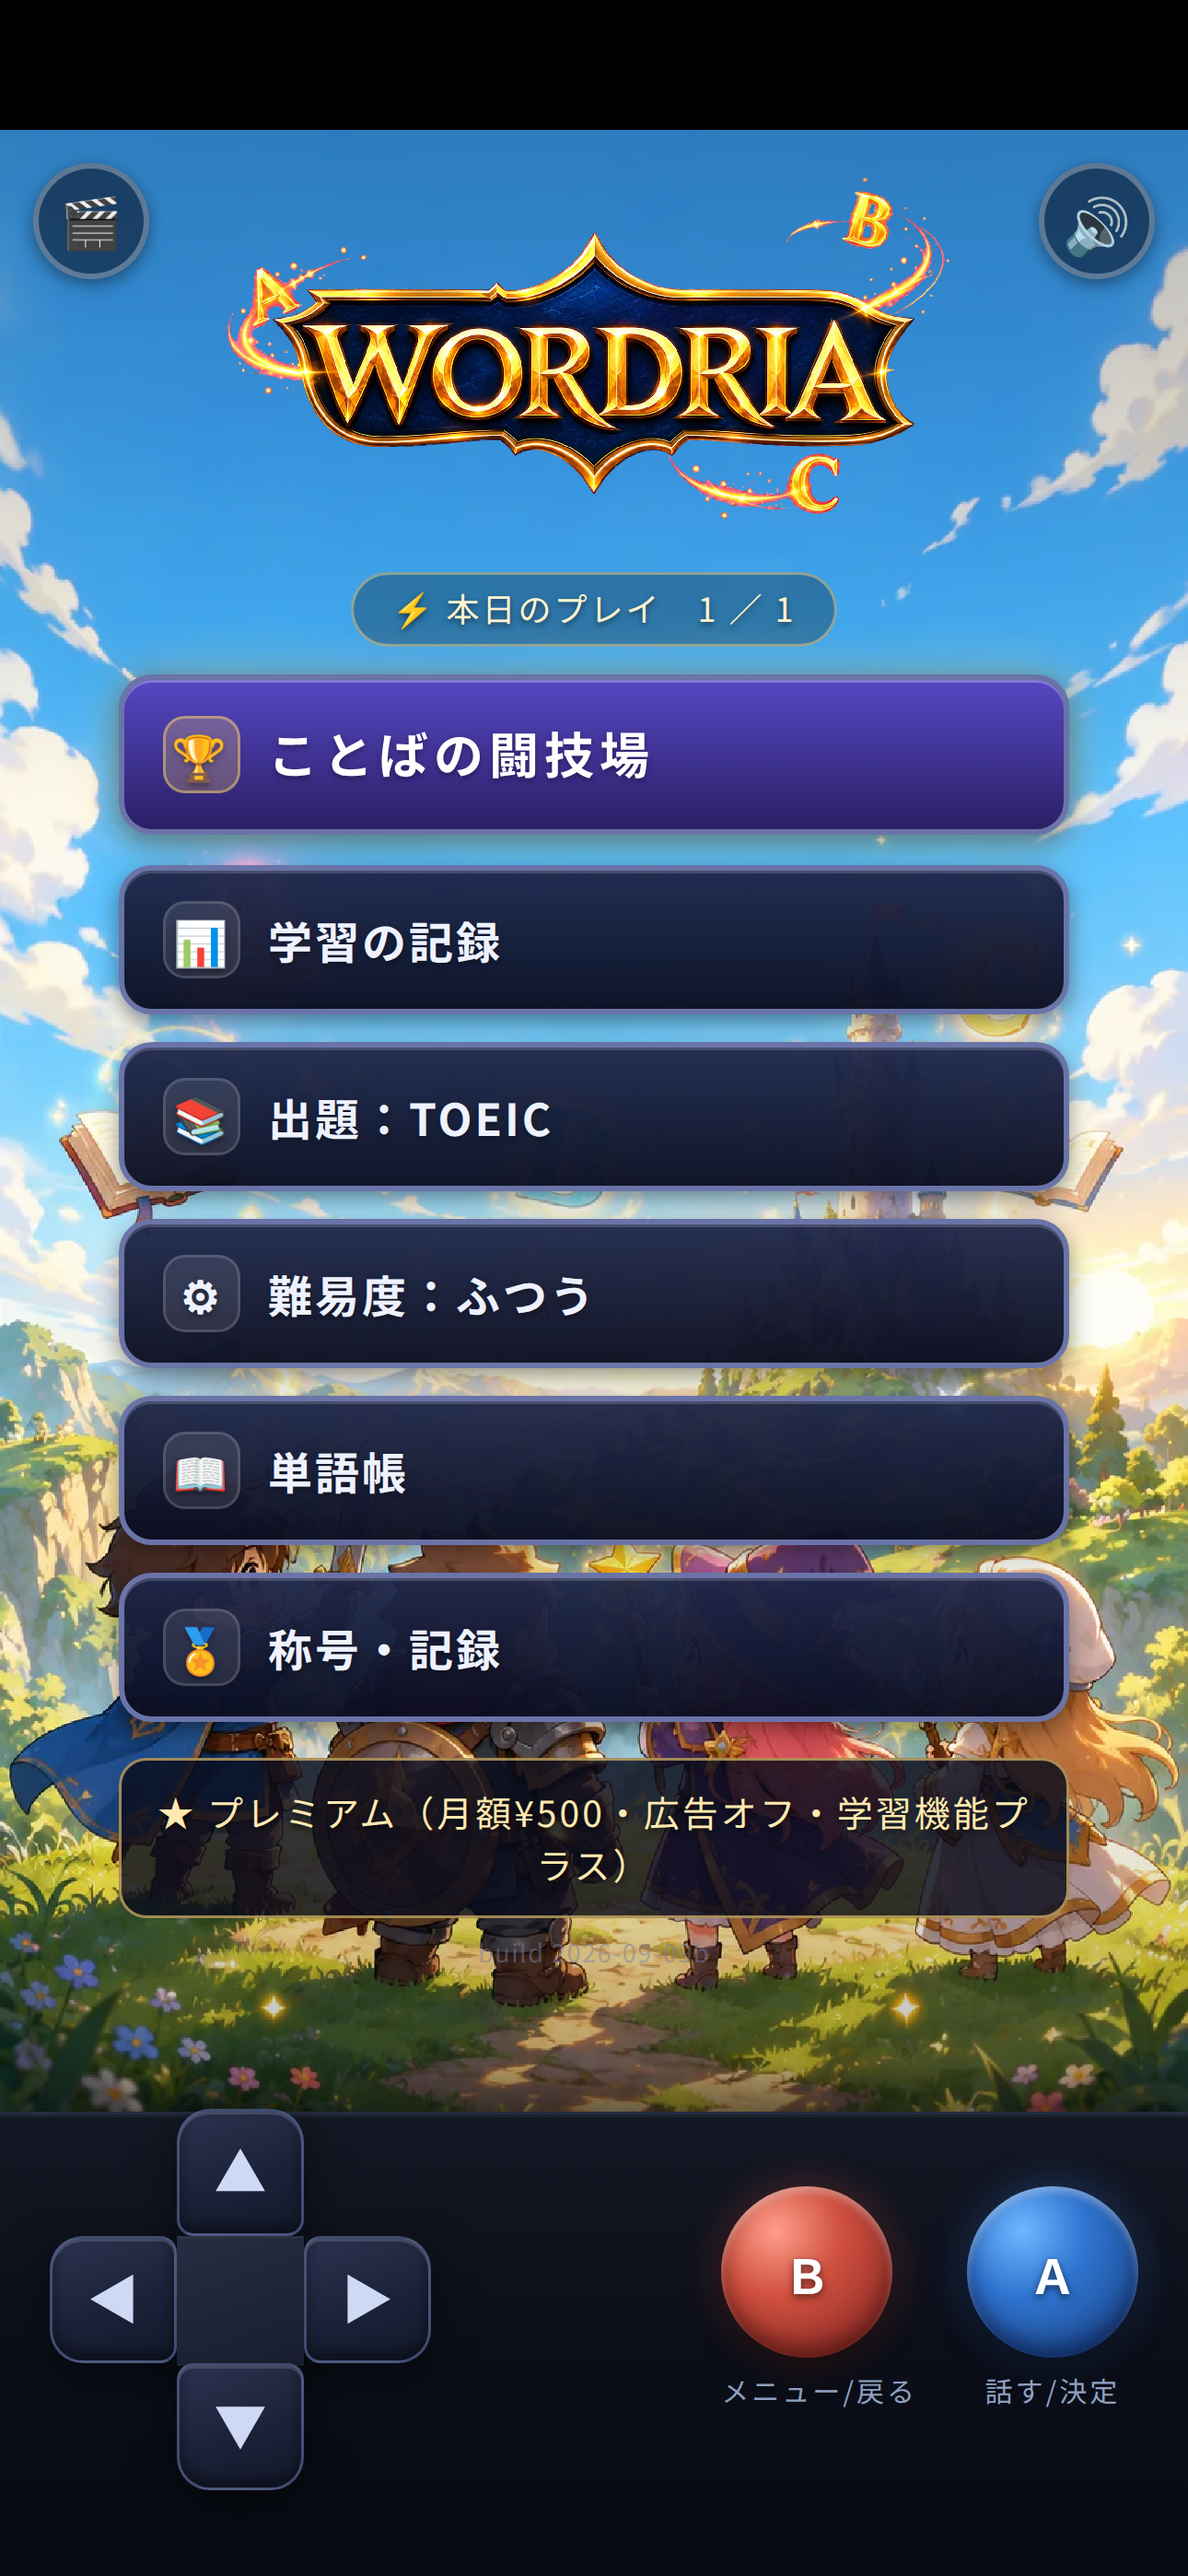
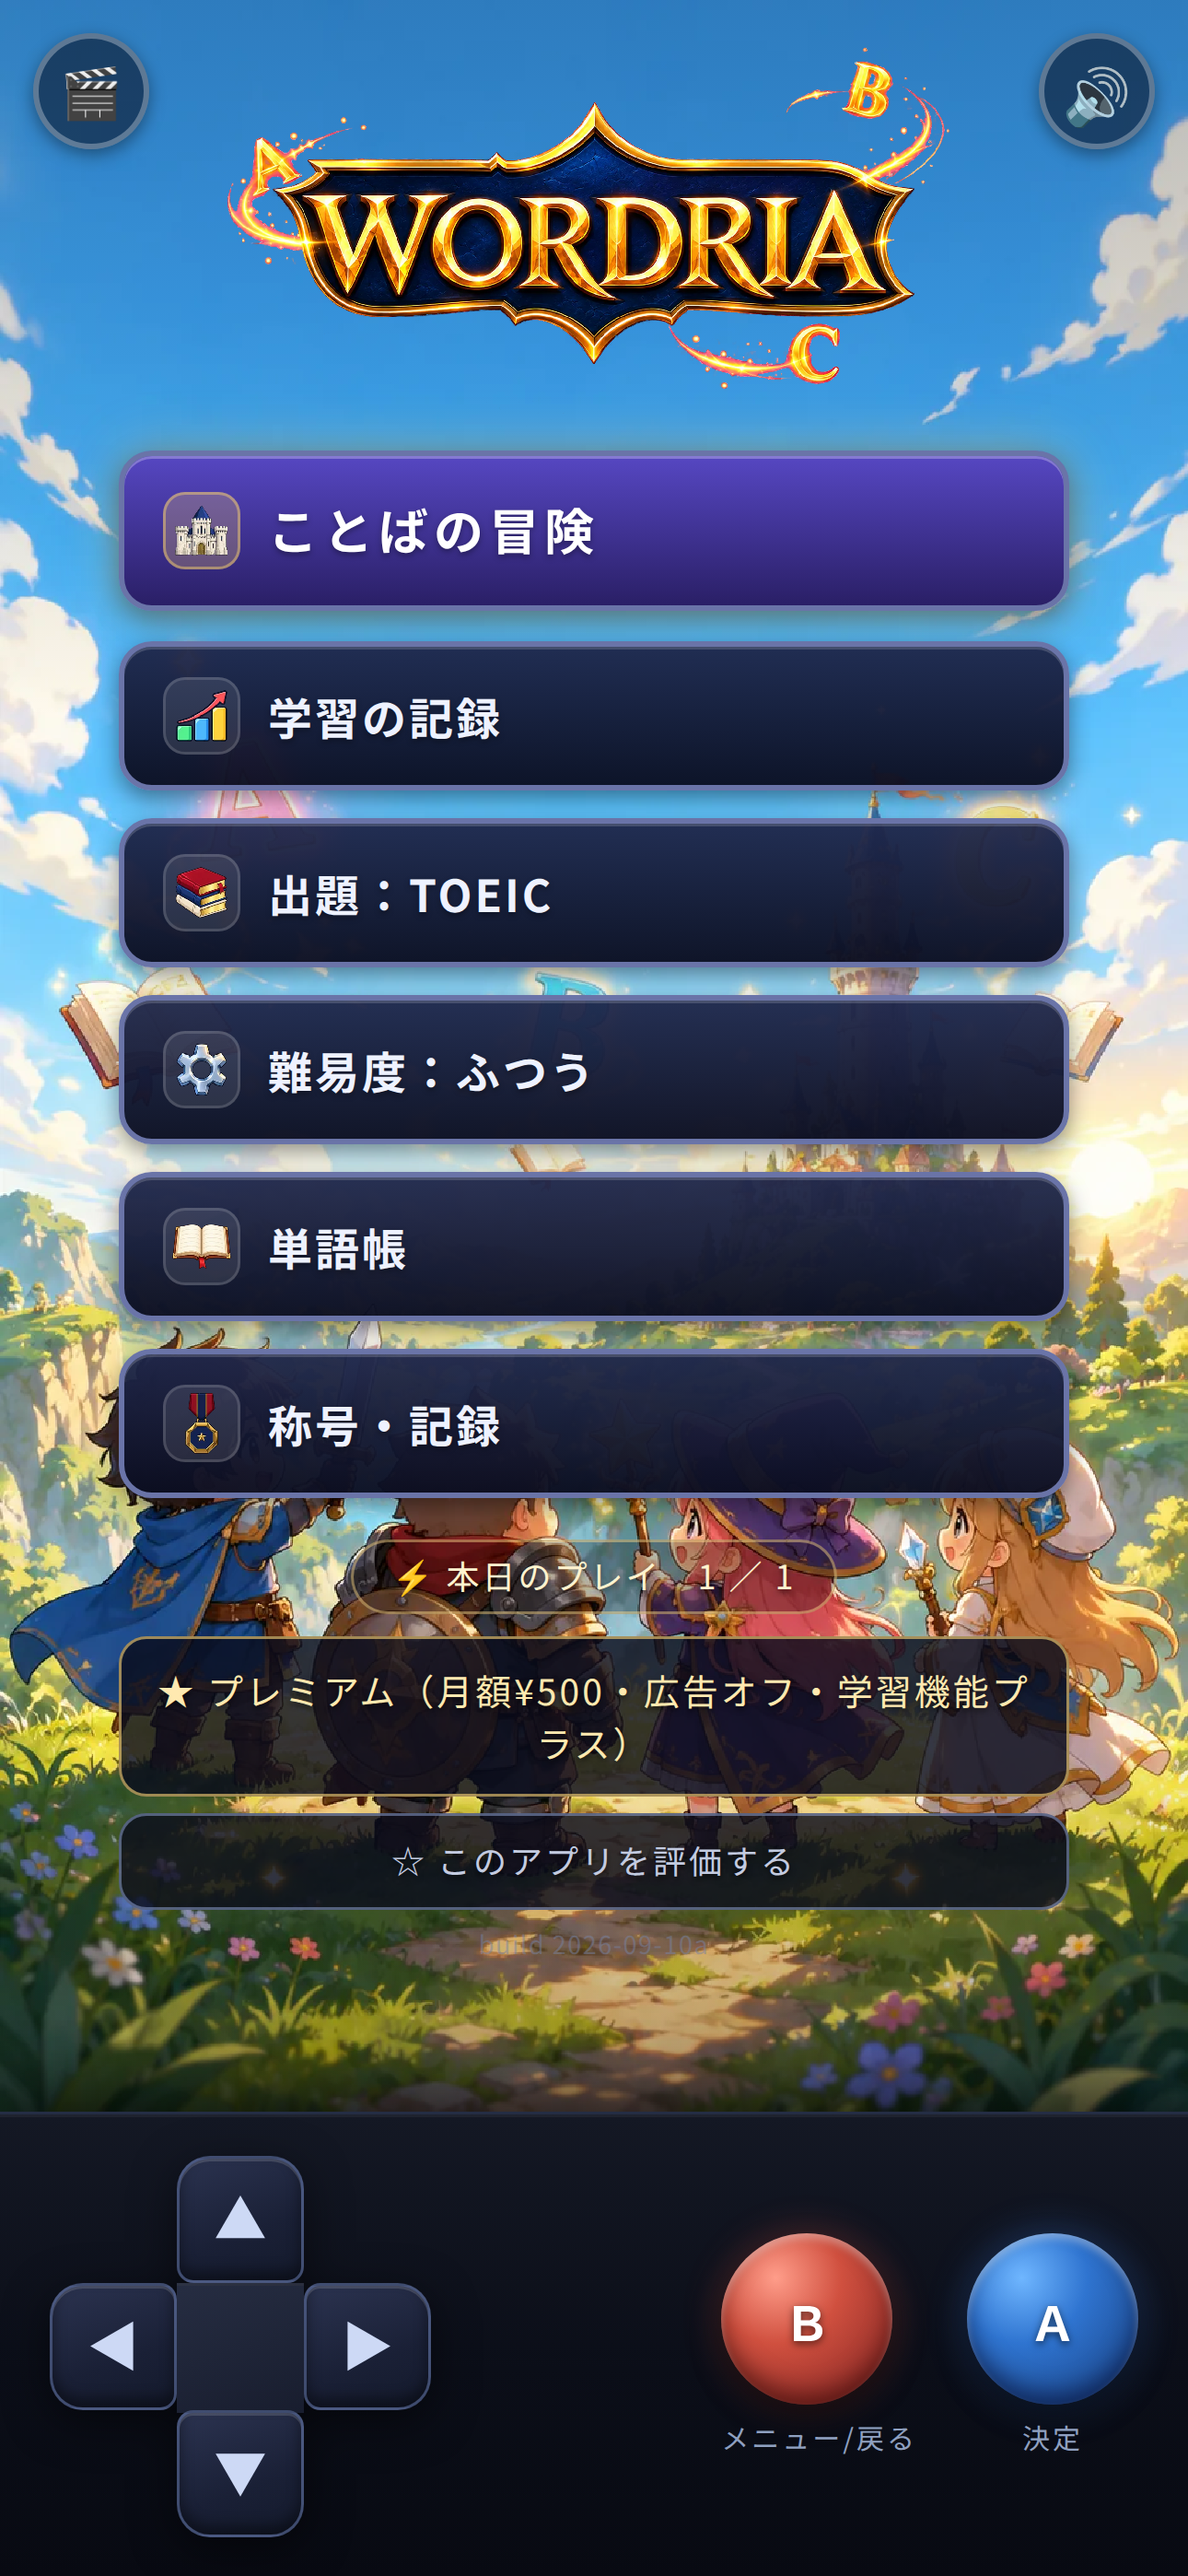
ストア用スクリーンショットを撮り直した（旧名と東京タワーが写っていた）
店頭に出す絵が中身と食い違っていた。

- store/screenshots/05_records.png に旧名 **WORD QUEST** のロゴが写っていた。
  ストアの表示名と画像の名前が違う状態だった
- 01_title.png は「🏆 ことばの闘技場」のまま。いまは「ことばの冒険」
- 称号・記録の一覧に **🗼（東京タワー）** が残っていた。タイトルからは
  消したが、ここを見落としていた。「冒険 完結」の🏰と合わせて絵に替えた

撮り直したのは 01_title / 05_records / 06_grades の3枚。
02_quiz と 03_boss は中身が古くなっていないので、そのまま使う。
6.9/6.5/13インチと Google Play 用（1080×1920）に組み直し済み。

- tools/make_shots.js を追加。README に「スクリプトは置いていない」と
  書いてあったが、画面を変えるたびに撮り直しが要るので残す。
  www/ ビルドから撮る（party/ には出荷ビルドに入らない行が混ざっている）
- make_ipad_shots.js の 06 のキャッチを「制覇回数」→「完結回数」。
  絵の中に「冒険 完結」と出ているのに見出しだけ別の言葉だった

Claude-Session: https://claude.ai/code/session_01FnVhb4STeLenZzKBowdTQv

diff --git a/tools/make_shots.js b/tools/make_shots.js
@@ -1,0 +1,147 @@
+#!/usr/bin/env node
+// ストア用スクリーンショットのうち、タイトル画面から行けるものを撮り直す。
+//
+//   npm run build:www
+//   npm install playwright-core --no-save
+//   node tools/make_shots.js
+//   → store/screenshots/01_title.png 05_records.png 06_grades.png （1290×2796）
+//
+// そのあと、いつもの並びに組み直す：
+//   node tools/make_store_assets.js   # → 6.9inch / 6.5inch
+//   node tools/make_ipad_shots.js     # → 13inch
+//   node tools/make_play_assets.js    # → store/play/
+//
+// ── なぜ www/ から撮るのか ──────────────────────────────
+// party/ は開発用で、出荷ビルドには入らないものが混ざっている
+// （「※ ストーリーモードは 制作中です」の行は build_www.js が落とす）。
+// 店頭に出す絵は、実際に配るものと同じでなければならない。
+//
+// ── 撮れないもの ────────────────────────────────────
+// 02_quiz と 03_boss は撮らない。特定の単語（moreover / competent）と
+// 四天王ハウルが出ている場面で、そこまで自動で持っていくのは当てにならない。
+// あの2枚は手で遊んで撮ったもので、中身も古くなっていないのでそのまま使う。
+//
+// ── 日本語フォント ─────────────────────────────────
+// これが無い環境で撮ると、sans-serif が中国語フォントに解決されて
+// **中国語の字形**になる（「記録」「単語」あたりで分かる）。
+//   fc-match "sans-serif:lang=ja"   → Noto Sans CJK JP なら正しい
+"use strict";
+var fs = require("fs");
+var path = require("path");
+var http = require("http");
+var { chromium } = require("playwright-core");
+
+var ROOT = path.resolve(__dirname, "..");
+var WWW = path.join(ROOT, "www");
+var OUT = path.join(ROOT, "store", "screenshots");
+var EXE = "/opt/pw-browsers/chromium-1194/chrome-linux/chrome";
+
+// iPhone 6.9インチ。1290×2796 は 430×932 の3倍
+var CSS_W = 430, CSS_H = 932, DPR = 3;
+var PORT = 8971;
+
+var TYPES = {
+  ".html": "text/html", ".js": "text/javascript", ".css": "text/css",
+  ".png": "image/png", ".webp": "image/webp", ".jpg": "image/jpeg",
+  ".mp3": "audio/mpeg", ".mp4": "video/mp4", ".json": "application/json"
+};
+
+function serve() {
+  return new Promise(function (resolve) {
+    var srv = http.createServer(function (req, res) {
+      var p = path.join(WWW, decodeURIComponent(req.url.split("?")[0]));
+      if (!p.startsWith(WWW) || !fs.existsSync(p) || fs.statSync(p).isDirectory()) {
+        res.writeHead(404); res.end(); return;
+      }
+      res.writeHead(200, { "Content-Type": TYPES[path.extname(p).toLowerCase()] || "application/octet-stream" });
+      fs.createReadStream(p).pipe(res);
+    });
+    srv.listen(PORT, "127.0.0.1", function () { resolve(srv); });
+  });
+}
+
+// 文字で押す。id が付いていないボタン（出題範囲・学年）があるため
+async function clickText(page, sel, text) {
+  var ok = await page.evaluate(function (a) {
+    var el = [].slice.call(document.querySelectorAll(a.sel))
+      .filter(function (e) { return e.textContent.indexOf(a.text) >= 0; })[0];
+    if (!el) return false;
+    el.click();
+    return true;
+  }, { sel: sel, text: text });
+  if (!ok) throw new Error("押せませんでした: " + sel + " 「" + text + "」");
+  await page.waitForTimeout(500);
+}
+
+(async function () {
+  if (!fs.existsSync(path.join(WWW, "index.html"))) {
+    console.error("www/ がありません。先に npm run build:www を実行してください。");
+    process.exit(1);
+  }
+  fs.mkdirSync(OUT, { recursive: true });
+  var srv = await serve();
+  var browser = await chromium.launch({ executablePath: EXE });
+  var missing = [];
+
+  async function open() {
+    var ctx = await browser.newContext({
+      viewport: { width: CSS_W, height: CSS_H }, deviceScaleFactor: DPR,
+      locale: "ja-JP", reducedMotion: "reduce"
+    });
+    // 初回の「出題範囲を えらぶ」が被さるので、選んだ状態にしておく。
+    // 撮るのは、一度遊んだ人が見ている画面
+    await ctx.addInitScript(function () {
+      try {
+        localStorage.setItem("wq2_mode_v1", JSON.stringify({ mode: "toeic", grade: "j3", lock: null }));
+      } catch (e) {}
+    });
+    var page = await ctx.newPage();
+    page.on("response", function (r) {
+      if (r.status() >= 400 && r.url().indexOf("favicon") < 0) missing.push(r.status() + " " + r.url());
+    });
+    await page.goto("http://127.0.0.1:" + PORT + "/index.html", { waitUntil: "networkidle" });
+    // 「タップして スタート」を抜ける。実際に押す（音の解禁もここで起きる）
+    await page.mouse.click(CSS_W / 2, CSS_H / 2);
+    await page.waitForTimeout(1600);   // 背景画とロゴが出そろうまで
+    return { ctx: ctx, page: page };
+  }
+
+  async function shot(page, name) {
+    var f = path.join(OUT, name + ".png");
+    await page.screenshot({ path: f, animations: "disabled" });
+    console.log("  " + name.padEnd(14) + (fs.statSync(f).size / 1024).toFixed(0) + "KB");
+  }
+
+  console.log("\n" + CSS_W * DPR + "×" + CSS_H * DPR + " で撮ります（www/ ビルドから）\n");
+
+  // ---- 01_title タイトル画面 ----
+  var a = await open();
+  await shot(a.page, "01_title");
+  // ---- 05_records 称号・記録 ----
+  await a.page.click("#pbtn-achv");
+  await a.page.waitForTimeout(600);
+  await shot(a.page, "05_records");
+  await a.ctx.close();
+
+  // ---- 06_grades 学年をえらぶ ----
+  // 出題：TOEIC → 学生（中学・高校） と進むと出る。撮ったら選ばずに閉じる
+  var b = await open();
+  await b.page.click("#pbtn-mode");
+  await b.page.waitForTimeout(600);
+  await clickText(b.page, ".wq2-store-btn", "学生（中学・高校）");
+  await b.page.waitForTimeout(400);
+  await shot(b.page, "06_grades");
+  await b.ctx.close();
+
+  await browser.close();
+  srv.close();
+
+  if (missing.length) {
+    console.error("\n  ! 読めなかったものがあります:");
+    missing.forEach(function (m) { console.error("      " + m); });
+    process.exitCode = 1;
+  } else {
+    console.log("\n  読み込みエラーなし");
+  }
+  console.log("\n  次: node tools/make_store_assets.js && node tools/make_ipad_shots.js && node tools/make_play_assets.js");
+})();

diff --git a/party/js/pmain.js b/party/js/pmain.js
@@ -661,16 +661,24 @@
       return '<div class="achv-medal ' + t.cls + '"><div class="achv-ic">' + (t.icon || "🔒") + '</div>' +
         '<div class="achv-lv">' + g.name + '</div><div class="achv-n">' + n + '/' + g.words.length + '</div></div>';
     }).join("");
+    // 冒険と塔だけは絵にする。🗼 は東京タワーそのもので、汎用の「塔」は
+    // Unicode に存在しない。城も端末ごとに形が変わるので、タイトルの項目と
+    // 同じ絵を使って揃える（assets/ui/icons/）。
+    // ※ パスは途中で切らず、ひとつながりの文字列で書くこと。build_www.js が
+    //    "../assets/ → "assets/、.png" → .webp" と書き換えるので、
+    //    つなぎ合わせて組み立てると書き換えが効かず、出荷ビルドで消える
+    var icAdv = '<img class="achv-img" src="../assets/ui/icons/ic_adventure.png" alt="">';
+    var icTow = '<img class="achv-img" src="../assets/ui/icons/ic_tower.png" alt="">';
     var rows = [
       ["📚 覚えた単語", pg.cleared + " / " + pg.total + " 語"],
       ["🏆 総合称号", (tr.icon || "🔰") + " " + tr.name],
       ["⭐ 金★（3連続正解）", gold + " 語"],
       ["⚡ 銀★（2秒以内）", fast + " 語"],
       ["🔥 連続学習", streak >= 1 ? streak + " 日" : "—"],
-      ["🏰 冒険 完結", (rc.clears || 0) + " 回"],
+      [icAdv + " 冒険 完結", (rc.clears || 0) + " 回"],
       ["⏱ 最速クリア", rc.bestMs ? fmtMs(rc.bestMs) : "—"],
       ["🔗 最大チェイン", rc.bestChain ? "×" + rc.bestChain : "—"],
-      ["🗼 挑戦の塔 最高", rc.bestFloor ? rc.bestFloor + " 階" : "—"]
+      [icTow + " 挑戦の塔 最高", rc.bestFloor ? rc.bestFloor + " 階" : "—"]
     ].map(function (r) { return '<div class="achv-row"><span>' + r[0] + '</span><b>' + r[1] + '</b></div>'; }).join("");
     var wrap = document.createElement("div");
     wrap.className = "wq2-store-ovl";

diff --git a/tools/make_ipad_shots.js b/tools/make_ipad_shots.js
@@ -33,7 +33,9 @@ var SHOTS = [
   { file: "03_title.png",    title: "単語帳を開くより、冒険しよう。", sub: "WORDRIA 英単語RPG" },
   { file: "04_grades.png",   title: "中学英語から TOEIC®まで",    sub: "中1・中2・中3・高校基礎・大学入試・難関大／スコア別の6段階。" },
   { file: "05_wordbook.png", title: "出会った単語は、単語帳に残る", sub: "意味・発音・正解率を、いつでも見返せる。" },
-  { file: "06_records.png",  title: "称号と記録が、次の一戦を呼ぶ", sub: "最速タイム、最大チェイン、制覇回数。" }
+  // 「制覇」はアプリ内で「完結」に直したので、こちらも合わせる。
+  // 絵の中に「冒険 完結」と出ているのに、見出しだけ別の言葉だと引っかかる
+  { file: "06_records.png",  title: "称号と記録が、次の一戦を呼ぶ", sub: "最速タイム、最大チェイン、完結回数。" }
 ];
 
 function dataUri(p) {

diff --git a/party/party.css b/party/party.css
@@ -303,6 +303,9 @@
   font-size: 12.5px; color: #cfd8ee; padding: 5px 2px; border-bottom: 1px solid rgba(255,255,255,.07); }
 .achv-row b { color: #ffe08a; font-size: 13.5px;
   font-family: "Hiragino Sans","Yu Gothic UI",system-ui,sans-serif; }
+/* 「冒険 完結」「挑戦の塔 最高」の行だけ、絵文字ではなく絵を使っている。
+   行は baseline でそろえているので、文字の下端に合わせて少し沈める */
+.achv-row img.achv-img { width: 15px; height: 15px; vertical-align: -2px; }
 
 /* daily streak chip */
 #ptitle-streak {

diff --git a/store/screenshots/README.md b/store/screenshots/README.md
@@ -21,8 +21,28 @@
 
 ## 撮り直し
 
-`tools/` にスクリプトは置いていない（ヘッドレスブラウザで都度撮影）。
-ゲーム画面を変えたら Claude 側で撮り直せる。
+```bash
+npm run build:www
+npm install playwright-core --no-save
+node tools/make_shots.js            # 01_title / 05_records / 06_grades
+node tools/make_store_assets.js     # → store/upload/6.9inch, 6.5inch
+node tools/make_ipad_shots.js       # → store/upload/13inch
+node tools/make_play_assets.js      # → store/play/
+```
+
+`make_shots.js` が撮るのは**タイトル画面から行ける3枚だけ**。
+`02_quiz` と `03_boss` は、特定の単語と四天王ハウルが出ている場面なので、
+そこまで自動で運ぶのは当てにならない。あの2枚は手で遊んで撮ったもの。
+
+**www/ ビルドから撮ること。** `party/` には出荷ビルドに入らないもの
+（「※ ストーリーモードは 制作中です」の行）が混ざっている。
 
 日本語フォントが無い環境で撮ると**中国語字形になる**ので注意
 （`sans-serif` が WenQuanYi 等に解決されるため）。`fonts-noto-cjk` が必要。
+確かめ方は `fc-match "sans-serif:lang=ja"` → `Noto Sans CJK JP` なら正しい。
+
+### 画面を変えたら撮り直すこと
+
+店頭の絵とアプリの中身が食い違うのは、審査以前に見た人を戸惑わせる。
+実際に `05_records` には旧名の **WORD QUEST** のロゴが、`01_title` には
+「ことばの闘技場」が写ったまま残っていた（2026-09-13 に撮り直し）。
